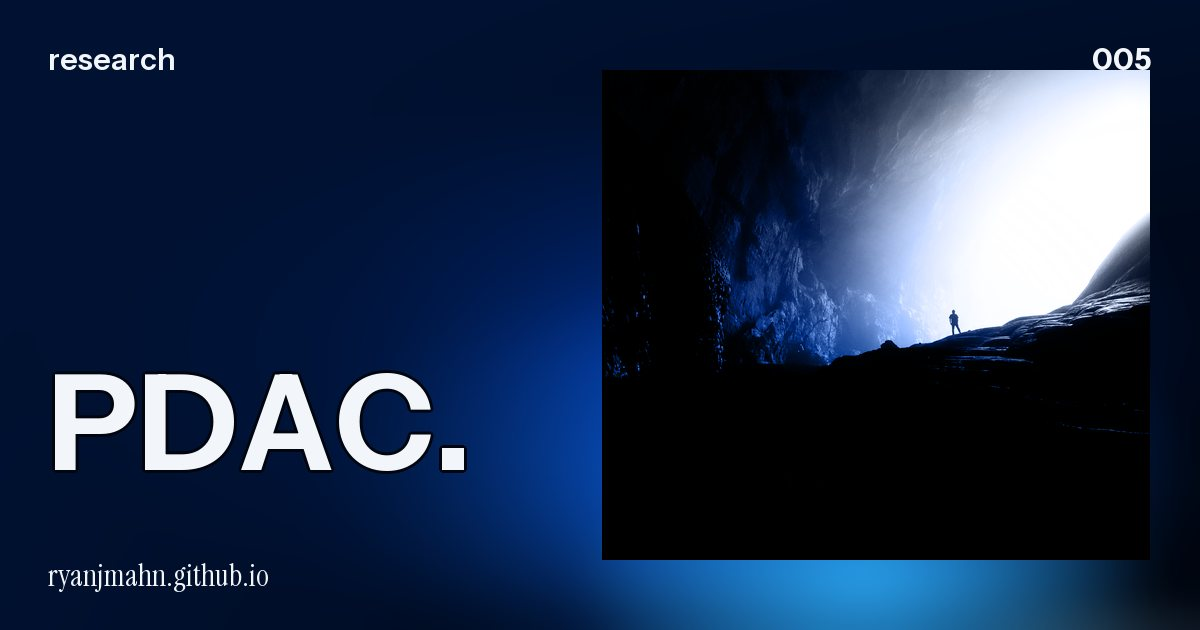
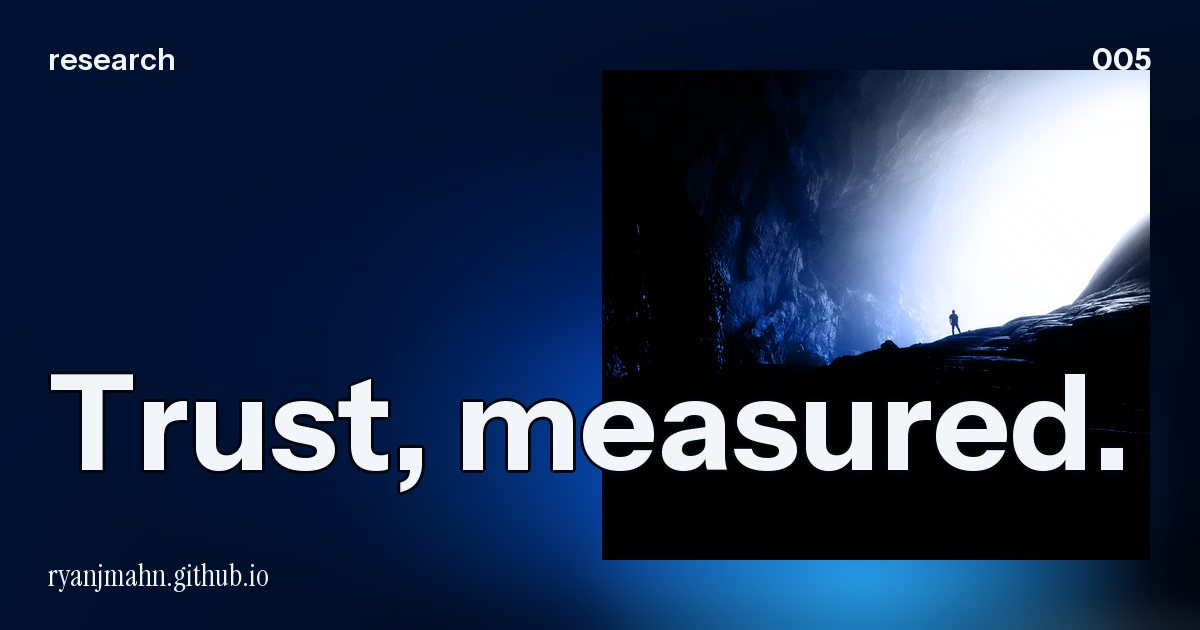
Refocus research on trust and lead with the NeurIPS paper
Drop the discontinued PDAC segmentation study. The plate becomes
"Trust, measured.", the paper Contaminated Ancestors (NeurIPS 2026 TAE)
leads the page at #contaminated-ancestors with its summary and pull
facts, and the home page links to it. The PDF is not hosted.

Changed region(s): [[0.0308, 0.573, 0.9558, 0.7841]]

diff --git a/research/index.html b/research/index.html
@@ -4,21 +4,21 @@
 <meta charset="UTF-8" />
 <script>document.documentElement.classList.add("js")</script>
 <meta name="viewport" content="width=device-width, initial-scale=1.0" />
-<title>research · 재민</title>
-<meta name="description" content="PDAC tumor segmentation and KRAS G12D cryptic-pocket prediction." />
+<title>research · NeurIPS 2026 TAE paper · 재민</title>
+<meta name="description" content="Accepted to the NeurIPS 2026 TAE workshop: Contaminated Ancestors, an audit of our own evaluation protocol. Plus a KRAS G12D Switch-II pocket benchmark." />
 <link rel="canonical" href="https://ryanjmahn.github.io/research/" />
 <meta property="og:type" content="website" />
 <meta property="og:site_name" content="ryan jaemin ahn" />
-<meta property="og:title" content="research · 재민" />
-<meta property="og:description" content="PDAC tumor segmentation and KRAS G12D cryptic-pocket prediction." />
+<meta property="og:title" content="research · NeurIPS 2026 TAE paper · 재민" />
+<meta property="og:description" content="Accepted to the NeurIPS 2026 TAE workshop: Contaminated Ancestors, an audit of our own evaluation protocol. Plus a KRAS G12D Switch-II pocket benchmark." />
 <meta property="og:url" content="https://ryanjmahn.github.io/research/" />
 <meta property="og:image" content="https://ryanjmahn.github.io/assets/img/og/research.jpg" />
 <meta property="og:image:width" content="1200" />
 <meta property="og:image:height" content="630" />
-<meta property="og:image:alt" content="A tiny figure at a cave opening under a shaft of light, with the headline “PDAC.”" />
+<meta property="og:image:alt" content="A tiny figure at a cave opening under a shaft of light, with the headline “Trust, measured.”" />
 <meta name="twitter:card" content="summary_large_image" />
-<meta name="twitter:title" content="research · 재민" />
-<meta name="twitter:description" content="PDAC tumor segmentation and KRAS G12D cryptic-pocket prediction." />
+<meta name="twitter:title" content="research · NeurIPS 2026 TAE paper · 재민" />
+<meta name="twitter:description" content="Accepted to the NeurIPS 2026 TAE workshop: Contaminated Ancestors, an audit of our own evaluation protocol. Plus a KRAS G12D Switch-II pocket benchmark." />
 <meta name="twitter:image" content="https://ryanjmahn.github.io/assets/img/og/research.jpg" />
 <meta name="theme-color" content="#00050F" />
 <link rel="icon" href="/favicon.ico" sizes="any" />
@@ -64,47 +64,53 @@
 
   <h1 class="sr-only">research</h1>
 
+  <!-- COPY: headline alternates — "Trust, measured." (chosen) / "Check the checker." / "Verify." -->
+  <!-- PHOTO BRIEF (TODO(ryan)): the cave photos predate the trust framing. Replace with a subject about scrutiny
+       or verification, same rules as every plate (tiny figure, atmosphere, crushed blacks): a figure under a single
+       inspection light, a dark archive of identical drawers or ledgers, a lone figure in a vast instrument hall.
+       Queries: "dark archive drawers black and white", "figure under inspection light", "observatory interior silhouette". -->
   <!-- Plate 005 — Research — paper, straddle -->
   <figure class="plate-unit plate-unit--full reveal">
     <div class="plate plate--dark plate--full">
       <div class="local-grain" aria-hidden="true"></div>
       <div class="plate__kicker">research</div>
       <div class="plate__index">005<span class="tri" aria-hidden="true">▼</span></div>
-      <div class="plate__meta"><b>(kras g12d)</b> <span class="meta-arrow" aria-hidden="true">▾</span> — binding</div>
+      <div class="plate__meta"><b>(2 studies)</b> <span class="meta-arrow" aria-hidden="true">▾</span> — trust</div>
       <div class="plate__inset" data-plate="005" data-sizes="(max-width: 720px) 68vw, 52vw" data-load="high">
         <script>plateInset()</script>
         <noscript><picture><source type="image/avif" srcset="/assets/img/plate-005-a-1000.avif 750w, /assets/img/plate-005-a-1600.avif 1200w, /assets/img/plate-005-a-2000.avif 1500w" sizes="(max-width: 720px) 68vw, 52vw" /><source type="image/webp" srcset="/assets/img/plate-005-a-1000.webp 750w, /assets/img/plate-005-a-1600.webp 1200w, /assets/img/plate-005-a-2000.webp 1500w" sizes="(max-width: 720px) 68vw, 52vw" /><img src="/assets/img/plate-005-a-1000.jpg" srcset="/assets/img/plate-005-a-1000.jpg 750w, /assets/img/plate-005-a-1600.jpg 1200w, /assets/img/plate-005-a-2000.jpg 1500w" sizes="(max-width: 720px) 68vw, 52vw" alt="A tiny figure on a cave ledge beneath a vast, slanting shaft of daylight." class="plate__photo grade-blueprint" width="1200" height="1600" loading="eager" fetchpriority="high" /></picture></noscript>
       </div>
-      <h2 class="plate__headline tech-straddle">PDAC.</h2>
-      <p class="plate__definition">
-        <span class="bracket">[abbrev.]</span>
-        <span class="def">pancreatic ductal adenocarcinoma — the most common pancreatic cancer, and one of the hardest to catch early.</span>
-      </p>
+      <h2 class="plate__headline tech-straddle">Trust, measured.</h2>
     </div>
     <figcaption class="caption-row">
       <span class="caption-row__label">Research</span>
-      <span class="caption-row__phrase">Pancreatic cancer, computationally.</span>
+      <span class="caption-row__phrase">Can you trust what the method says?</span>
       <span class="caption-row__num">05</span>
     </figcaption>
   </figure>
 
   <section class="sheet">
 
+    <p class="research-lede">Two projects, one question: when a computational result has no outside referee, what makes it trustworthy?</p>
+
   <div class="quiet-column">
     <ul class="hairline-list">
-      <li>
-        <span class="gutter-label">segmentation</span>
+      <li id="contaminated-ancestors">
+        <span class="gutter-label">paper</span>
         <div class="entry-body">
-          <h3 class="entry-title">PDAC tumor segmentation</h3>
-          <dl class="study">
-            <dt>problem</dt>
-            <dd>PDAC tumors are small and low-contrast against the tissue around them, so outlining them by hand is slow and varies from reader to reader.</dd>
-            <dt>method</dt>
-            <dd>Benchmarking convolutional (CNN) and transformer segmentation models against each other on the same task. <!-- TODO(ryan): dataset, imaging modality (CT / MRI), metrics --></dd>
-            <!-- TODO(ryan): status (in progress / submitted / published), collaborators, link or preprint — then uncomment:
-            <dt>status</dt>
-            <dd>…</dd> -->
-          </dl>
+          <h3 class="entry-title">Contaminated Ancestors: Seven Ways Our Own Evaluation Protocol Nearly Told Us the Wrong Thing</h3>
+          <!-- TODO(ryan): confirm the workshop's full name and add the OpenReview/proceedings link when it's live.
+               Do not host the PDF: the copy on hand is the anonymous submission version, marked not for distribution. -->
+          <p class="paper-venue">NeurIPS 2026 · TAE workshop · accepted</p>
+          <p><strong>What we were doing.</strong> Ancestral reconstruction infers what a protein looked like millions of years ago, assuming every lineage has one parent. When two histories have merged, the method doesn't fail loudly — it returns a confident chimera. We built a detector for that, then wrote the paper about our evaluation instead of our result.</p>
+          <p><strong>What we found.</strong> Our detector flagged 2 of 15 contaminated cases — and 2 of 15 in a control with nothing to find, because a calibrated test is <em>supposed</em> to fire at its threshold on empty data. What really separated signal from noise was where the flag landed: 81% overlap with the true block, versus 8% for the control. Six more failures followed, from an unchecked sign convention that inverted a score (0.048 where the truth was 0.952) to seed noise larger than every effect we studied. Plain string comparison even beat the neural network (36/40 vs 11/40), and a laptop GPU silently turned p = 0.030 into p = 1.000.</p>
+          <p><strong>Why it matters.</strong> Scientific ML often has one dataset, one lab, a few seeds, and nobody outside positioned to check. A protocol can be locally correct and globally misleading, and still get published. The paper closes with an 11-question checklist any lab can run on its own protocol — none of it requires the biology.</p>
+          <ul class="highlights highlights--facts">
+            <li><span class="highlights__big">2/15 vs 2/15</span><span class="highlights__label">detection rate on real contamination versus on nothing at all</span></li>
+            <li><span class="highlights__big">0.048 → 0.952</span><span class="highlights__label">a score inverted by an unchecked sign convention</span></li>
+            <li><span class="highlights__big">11</span><span class="highlights__label">questions in the resulting protocol checklist</span></li>
+          </ul>
+          <p class="paper-link">Paper link coming after camera-ready.</p>
         </div>
       </li>
       <li>

diff --git a/assets/css/site.css b/assets/css/site.css
@@ -1187,6 +1187,28 @@ body.surface-field::before {
   color: var(--on-dark-2);
 }
 
+/* research: the paper entry — serif intro line, venue, pull facts */
+.research-lede {
+  margin: 0 0 var(--s4);
+  font-family: var(--font-caption);
+  font-size: 24px;
+  line-height: 1.35;
+  color: var(--on-dark);
+}
+.paper-venue,
+.paper-link {
+  font-size: 15px;
+  font-weight: 500;
+  letter-spacing: .01em;
+  color: var(--on-dark-2);
+}
+.highlights--facts { margin: var(--s3) 0; }
+.highlights--facts .highlights__label { font-family: var(--font-caption); font-size: 17px; }
+/* a second project after the outbound block (built) */
+.hairline-list--next { margin-top: var(--s5); }
+/* anchors land below the sticky nav */
+.hairline-list > li[id] { scroll-margin-top: 72px; }
+
 /* social links with their names, not bare icons */
 .icon-row--labelled { flex-wrap: wrap; gap: var(--s1) var(--s3); }
 .icon-row--labelled a {

diff --git a/index.html b/index.html
@@ -229,6 +229,11 @@
     </div>
   </div>
 
+  <div class="latest-writing reveal">
+    <span class="date">NeurIPS 2026 TAE</span>
+    <a href="/research/#contaminated-ancestors">Contaminated Ancestors →</a>
+  </div>
+
   <!-- TODO(ryan): update this line by hand when you add a diary entry — it points at the newest post -->
   <div class="latest-writing reveal">
     <span class="date">2026-09-14</span>

diff --git a/tools/make-og.py b/tools/make-og.py
@@ -37,7 +37,7 @@ PAGES = {
     "home": ("plate-001-a.jpg", 0.15, 0.8, "ryan jaemin ahn", "001", "Build responsibly.", True, 1.4),
     "built": ("plate-002-a.jpg", 0.5, 0.5, "probix labs", "002", "Reproducible.", True),
     "initiatives": ("plate-003-a.jpg", 0.5, 0.6, "stemise · hackathons", "003", "Reach.", True),
-    "research": ("plate-005-a.jpg", 0.5, 0.5, "research", "005", "PDAC.", True),
+    "research": ("plate-005-a.jpg", 0.5, 0.5, "research", "005", "Trust, measured.", True),
     "cv": ("plate-006.jpg", 0.5, 0.6, "roles & projects", "006", "cv.", True),
     "contact": ("plate-008.jpg", 0.5, 0.5, "say hello", "008", "Reach out.", True),
     "diary": ("plate-009.jpg", 0.5, 0.5, "entries", "009", "Diary.", True),
